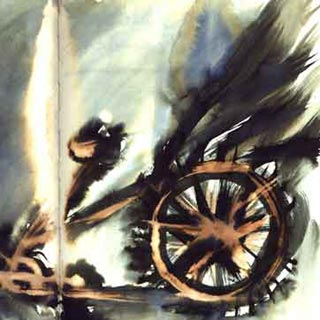
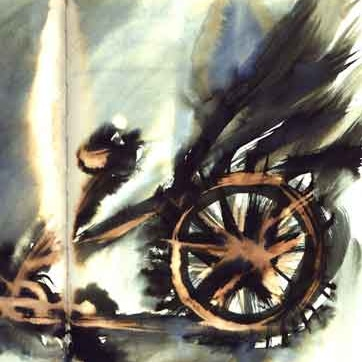
Store slideshow caps in items.json and use the alternate higher-resolution slides.

diff --git a/www-root/src/lib/data/schema.ts b/www-root/src/lib/data/schema.ts
@@ -31,13 +31,40 @@ const BaseItemSchema = z
     title: LocalizedStringSchema,
     desc: LocalizedStringSchema.optional(),
     imgs: z.number().optional(),
+    /**
+     * Slideshow cap: width and height of the slide with the fewest pixels.
+     * Written in items.json. The menu icon is not part of the measurement.
+     * Flash and the legacy HTML5 view never read these.
+     */
+    maxW: z.number().int().positive().optional(),
+    maxH: z.number().int().positive().optional(),
     url: z.union([z.string(), LocaleTextSchema]).optional(),
     launch: LocalizedStringSchema.optional(),
     pop: z.string().optional(),
   })
-  .strict();
+  .strict()
+  .superRefine((item, ctx) => {
+    if ((item.maxW === undefined) !== (item.maxH === undefined)) {
+      ctx.addIssue({
+        code: "custom",
+        message: "maxW and maxH are set together",
+        path: ["maxW"],
+      });
+    }
+  });
 
-export type ContentItem = z.infer<typeof BaseItemSchema>;
+/** Live item. A slideshow records its cap in the source file. */
+export const ItemSchema = BaseItemSchema.superRefine((item, ctx) => {
+  if ((item.imgs ?? 0) > 0 && item.maxW === undefined) {
+    ctx.addIssue({
+      code: "custom",
+      message: "A slideshow includes maxW and maxH",
+      path: ["maxW"],
+    });
+  }
+});
+
+export type ContentItem = z.infer<typeof ItemSchema>;
 
 /**
  * Menu path only, never an item id. `["websites"]`, `["art", "install"]`, or `[]` for the root.
@@ -68,7 +95,7 @@ function rejectDuplicateIds(items: { id: string }[], ctx: z.RefinementCtx): void
 }
 
 /** Flat source list. The same id is defined once even when several menus link to it. */
-export const ItemsFileSchema = z.array(BaseItemSchema).superRefine(rejectDuplicateIds);
+export const ItemsFileSchema = z.array(ItemSchema).superRefine(rejectDuplicateIds);
 
 /** Parked items. Same content fields, plus optional menu positions for enable. */
 export const DisabledItemsSchema = z.array(DisabledItemSchema).superRefine(rejectDuplicateIds);
@@ -88,7 +115,7 @@ const MenuItemSchema: z.ZodType<MenuItem> = z.lazy(() =>
       id: z.string(),
       type: z.literal("men"),
       title: LocalizedStringSchema,
-      menu: z.array(z.union([MenuItemSchema, BaseItemSchema])),
+      menu: z.array(z.union([MenuItemSchema, ItemSchema])),
     })
     .strict(),
 );
@@ -151,7 +178,7 @@ export const DataSchema = z
     id: z.string(),
     title: z.string(),
     type: z.literal("main"),
-    menu: z.array(z.union([MenuItemSchema, BaseItemSchema])),
+    menu: z.array(z.union([MenuItemSchema, ItemSchema])),
     other: OtherSchema,
   })
   .strict();

diff --git a/www-root/src/app/[locale]/[...path]/page.tsx b/www-root/src/app/[locale]/[...path]/page.tsx
@@ -1,7 +1,5 @@
 import { findByPath } from "@/lib/data/content";
-import { slideshowMaxFrom } from "@/lib/data/image-size";
-import { isContentItem } from "@/lib/data/schema";
-import { posterDirs, videoPosterUrl } from "@/lib/video-poster";
+import { videoPosterUrl } from "@/lib/video-poster";
 import { notFound } from "next/navigation";
 import { ContentPage } from "@/components/content-page";
 
@@ -18,19 +16,6 @@ export default async function PathPage({ params }: PathPageProps) {
   }
 
   const poster = node.type === "vid" ? videoPosterUrl(node.id) : null;
-  const slideCount = isContentItem(node) && node.type !== "vid" ? node.imgs : undefined;
-  const max = slideCount ? slideshowMaxFrom(posterDirs(), node.id, slideCount) : null;
-  if (slideCount && !max) {
-    throw new Error(`Cannot measure slides for ${node.id}`);
-  }
 
-  return (
-    <ContentPage
-      node={node}
-      path={path}
-      locale={locale as "en" | "es"}
-      poster={poster}
-      {...(max ? { maxW: max.width, maxH: max.height } : {})}
-    />
-  );
+  return <ContentPage node={node} path={path} locale={locale as "en" | "es"} poster={poster} />;
 }

diff --git a/www-root/src/components/article/article-view.tsx b/www-root/src/components/article/article-view.tsx
@@ -14,11 +14,9 @@ import { ContentTransition } from "@/components/content-transition/content-trans
 interface ArticleViewProps {
   item: ContentItem;
   locale: Locale;
-  maxW?: number;
-  maxH?: number;
 }
 
-export function ArticleView({ item, locale, maxW, maxH }: ArticleViewProps) {
+export function ArticleView({ item, locale }: ArticleViewProps) {
   const title = localize(item.title, locale);
   const desc = localize(item.desc, locale);
   const launchText = localize(item.launch, locale);
@@ -55,7 +53,9 @@ export function ArticleView({ item, locale, maxW, maxH }: ArticleViewProps) {
               itemId={item.id}
               imgCount={imgCount}
               alt={title}
-              {...(maxW !== undefined && maxH !== undefined ? { maxW, maxH } : {})}
+              {...(item.maxW !== undefined && item.maxH !== undefined
+                ? { maxW: item.maxW, maxH: item.maxH }
+                : {})}
             />
           </ContentTransition>
         )}

diff --git a/www-root/src/components/content-page/index.tsx b/www-root/src/components/content-page/index.tsx
@@ -25,11 +25,9 @@ interface ContentPageProps {
   path: string[];
   locale: Locale;
   poster?: string | null;
-  maxW?: number;
-  maxH?: number;
 }
 
-export function ContentPage({ node, path, locale, poster = null, maxW, maxH }: ContentPageProps) {
+export function ContentPage({ node, path, locale, poster = null }: ContentPageProps) {
   const basePath = path.join("/");
 
   if (isMenuItem(node)) {
@@ -56,11 +54,7 @@ export function ContentPage({ node, path, locale, poster = null, maxW, maxH }: C
 
   return (
     <main data-component="ContentPage" className="flex-1">
-      <ArticleView
-        item={node}
-        locale={locale}
-        {...(maxW !== undefined && maxH !== undefined ? { maxW, maxH } : {})}
-      />
+      <ArticleView item={node} locale={locale} />
     </main>
   );
 }

diff --git a/www-root/src/lib/data/compile.test.ts b/www-root/src/lib/data/compile.test.ts
@@ -105,7 +105,15 @@ describe("compilePortfolio", () => {
   it("rejects an id listed in both item files", () => {
     const items = structuredClone(sources.items) as { id: string }[];
     const disabled = sources.disabled as { id: string; menu_positions?: unknown }[];
-    const { menu_positions: _positions, ...duplicate } = structuredClone(disabled[0]!);
+    const { menu_positions: _positions, ...duplicate } = structuredClone(disabled[0]!) as {
+      imgs?: number;
+      maxW?: number;
+      maxH?: number;
+    };
+    if ((duplicate.imgs ?? 0) > 0) {
+      duplicate.maxW = 1;
+      duplicate.maxH = 1;
+    }
     items.push(duplicate);
     expect(() => compilePortfolio({ ...sources, items })).toThrow(
       /both items.json and items-disabled.json/,

diff --git a/www-root/src/lib/data/compile.ts b/www-root/src/lib/data/compile.ts
@@ -59,6 +59,9 @@ function normalizeItem(item: ContentItem): ContentItem {
     title: normalizeLocalized(item.title),
     ...(item.desc !== undefined ? { desc: normalizeLocalized(item.desc) } : {}),
     ...(item.imgs !== undefined ? { imgs: item.imgs } : {}),
+    ...(item.maxW !== undefined && item.maxH !== undefined
+      ? { maxW: item.maxW, maxH: item.maxH }
+      : {}),
     ...(item.url !== undefined
       ? {
           url: typeof item.url === "string" ? item.url : { en: item.url.en, es: item.url.es },

diff --git a/www-root/src/components/article/article-view.test.tsx b/www-root/src/components/article/article-view.test.tsx
@@ -54,7 +54,7 @@ describe("ArticleView", () => {
   });
 
   it("caps the slideshow at the smallest slide and shrinks with the column", () => {
-    render(<ArticleView item={slideshowItem} locale="en" maxW={482} maxH={362} />);
+    render(<ArticleView item={{ ...slideshowItem, maxW: 482, maxH: 362 }} locale="en" />);
 
     const stage = document.querySelector("[role='region']");
     expect(stage).toHaveClass("w-full");

diff --git a/www-root/README.md b/www-root/README.md
@@ -50,7 +50,7 @@ npx vercel --prod   # production deploy (after cutover)
 
 One copy of live images in git: repo-root `content/img`. Install/build copies it to `www-root/public/_generated/img/` (gitignored as `www-root/public/_generated/`). A rewrite maps `/content/img/…` → `/_generated/img/…` so app URLs stay the same. `legacy-2014` serves the same tree at `/content`.
 
-Portfolio jpgs are `{id}.jpg` (the menu icon; every item has one, still shown at 120×90), `{id}_{n}.jpg` (slides), and `{id}_poster.jpg` (optional video poster, same ratio as that video). The Next slideshow measures the slides, uses the one with the fewest pixels as its maximum, and shrinks when the column is narrower. Flash keeps scaling each bitmap into its own stage. `data.json` stays the compile of the content sources. `npm run json:items` moves a jpg to `content/img-disabled` when its id is not in `main.json`, and moves it back when the id returns. `stump.png` and `curl-sprite.png` stay in `content/img`. The same command moves that id's `public/swf-compare/pages.json` records and catalog entries to `public/swf-compare-disabled`, and moves them back on enable, then rebuilds the compare index.
+Portfolio jpgs are `{id}.jpg` (the menu icon; every item has one, still shown at 120×90), `{id}_{n}.jpg` (slides), and `{id}_poster.jpg` (optional video poster, same ratio as that video). Slideshow `maxW` and `maxH` are edited in `items.json` (the slide with the fewest pixels). Compile copies them into `data.json`. The Next slideshow uses that size as its maximum and shrinks when the column is narrower. Flash ignores those fields and keeps scaling each bitmap into its own stage. `npm run json:items` moves a jpg to `content/img-disabled` when its id is not in `main.json`, and moves it back when the id returns. `stump.png` and `curl-sprite.png` stay in `content/img`. The same command moves that id's `public/swf-compare/pages.json` records and catalog entries to `public/swf-compare-disabled`, and moves them back on enable, then rebuilds the compare index.
 
 Do not symlink `www-root/public/content/img` to `content/img` — Vercel copies `public/` and errors with “Cannot copy … to a subdirectory of itself”.
 

diff --git a/AGENTS.md b/AGENTS.md
@@ -18,11 +18,22 @@
 
 ## Edit portfolio JSON
 
+Edit the source files first, then compile. `content/json/data.json` and `content/json/menu.md` are compiled. Do not edit them by hand.
+
+Source files:
+
+- `content/json/main.json` — menu links and order
+- `content/json/items.json` — flat content objects, one definition per id. Slideshow `maxW` and `maxH` go here, after `imgs`. They are the width and height of the slide with the fewest pixels (`{id}_1.jpg` through `{id}_{n}.jpg`). The menu icon (`{id}.jpg`) is not part of that measurement.
+- `content/json/items-disabled.json` — items kept out of the site
+- `content/json/other.json` — shared en/es UI text
+
+After changing a source file, run `npm run sync:json --prefix www-root`. That compiles `content/json/data.json` and minifies the Flash copy.
+
 When the user says **edit json data**:
 
 1. From the repo root, run `npm run json:edit`.
-2. Reply with the printed URLs. They open [JSON Editor Online](https://jsoneditoronline.org) with `content/json/main.json` (menu links and order), `content/json/items.json` (flat content objects), `content/json/items-disabled.json` (items kept out of the site), and `content/json/other.json` (shared en/es UI text) already loaded in tree mode. Do not paste the file bodies into the chat.
-3. When they bring edited JSON back, write it to the matching source file with 4-space indentation and a trailing newline, then run `npm run sync:json --prefix www-root`. That compiles `content/json/data.json` and minifies the Flash copy.
+2. Reply with the printed URLs. They open [JSON Editor Online](https://jsoneditoronline.org) with the four source files already loaded in tree mode. Do not paste the file bodies into the chat.
+3. When they bring edited JSON back, write it to the matching source file with 4-space indentation and a trailing newline, then run `npm run sync:json --prefix www-root`.
 
 ## Enable or disable portfolio items
 

diff --git a/docs/PROGRESS.md b/docs/PROGRESS.md
@@ -129,11 +129,15 @@ Add new work in this section. The decisions log at the bottom of this file cover
 
 2026-11-20 — Replaced the other portfolio images that have a higher-resolution original in the same framing.
 
-2026-11-20 — Next measures the smallest slide for the slideshow frame and shrinks it when the column is narrower. `data.json` stays the compiled content tree.
+2026-11-20 — Slideshow maxW and maxH are stored on each item in items.json, from the smallest slide, and the frame shrinks when the column is narrower.
+
+2026-11-20 — Vidzone slide 3 and seven Sketchbook slides use the higher-resolution originals that had different filenames.
 
 2026-11-19 — Contact menu icon is a 120×90 LinkedIn mark. The three contact photos stay the slideshow.
 
 2026-11-20 — Contact menu icon is the pencil sketch, still 120×90. The three contact photos stay the slideshow.
+
+2026-11-20 — Article launch links show a willow leaf and a seed side by side so the two shapes can be compared.
 
 ---
 

diff --git a/www-root/AGENTS.md b/www-root/AGENTS.md
@@ -48,7 +48,7 @@ npm run test         # Vitest watch mode
 npm run test:run     # Vitest single run
 npm run test:e2e     # Playwright E2E
 npm run sync:images  # Copy repo-root content/img → public/_generated/img (gitignored)
-npm run compile:json # Compile content/json/main.json + items.json + other.json → content/json/data.json and menu.md (items-disabled.json stays out)
+npm run compile:json # Compile content/json/main.json + items.json + other.json → content/json/data.json and menu.md (items-disabled.json stays out). Edit those source files first, including slideshow maxW and maxH in items.json. Do not edit data.json by hand.
 npm run json:items -- --disable id1,id2 --enable id3 # Enable or disable portfolio ids, park jpgs absent from main.json, and park or restore SWF compare pages in public/swf-compare-disabled
 npm run sync:json    # Compile that file, then minify it to public/content/json/data.json (gitignored)
 npm run deploy       # Vercel preview (requires vercel login + link)
